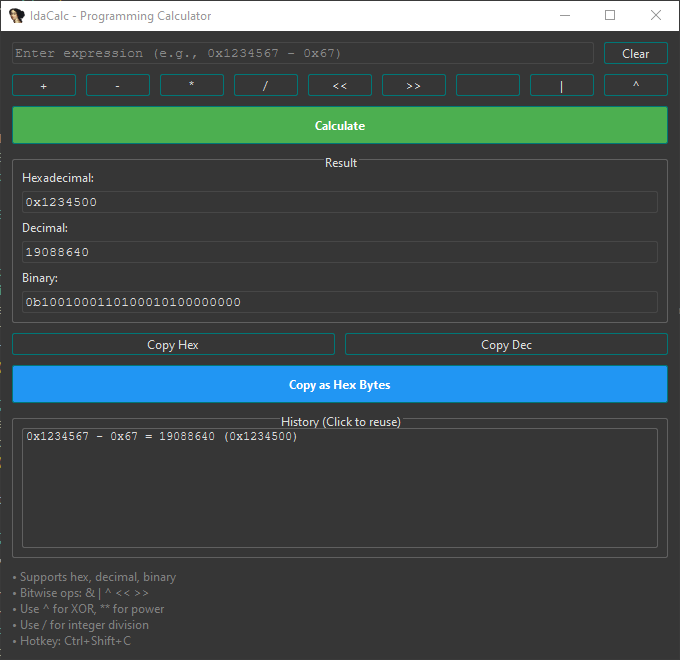
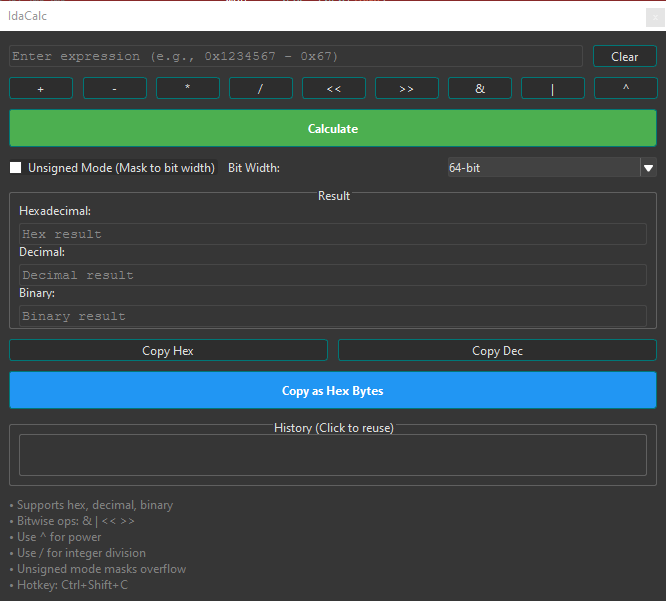
Add unsigned mode, bit width selection, and PySide6 PluginForm integration

Changed region(s): [[0.0, 0.0, 1.0, 0.9884], [0.4805, 0.2995, 0.5405, 0.3295]]

diff --git a/plugins/IdaCalc-9.2.py b/plugins/IdaCalc-9.2.py
@@ -1,18 +1,19 @@
 import idaapi
 import ida_kernwin
-from PySide6 import QtWidgets, QtCore, QtGui
+from PySide6 import QtWidgets, QtGui
 
-class IdaCalcWidget(QtWidgets.QWidget):
+class IdaCalcWidget(idaapi.PluginForm):
     def __init__(self):
         super().__init__()
         self.History = []
+        self.UnsignedMode = False
+        self.BitWidth = 64
+        
+    def OnCreate(self, form):
+        self.Parent = self.FormToPyQtWidget(form)
         self.InitUI()
-        
+                
     def InitUI(self):
-        self.setWindowTitle("IdaCalc - Programming Calculator")
-        self.setMinimumWidth(500)
-        self.setWindowFlags(QtCore.Qt.Window | QtCore.Qt.WindowStaysOnTopHint)
-        
         Layout = QtWidgets.QVBoxLayout()
         Layout.setSpacing(10)
         
@@ -45,6 +46,20 @@ class IdaCalcWidget(QtWidgets.QWidget):
         CalcBtn.clicked.connect(self.Calculate)
         CalcBtn.setStyleSheet("QPushButton { background-color: #4CAF50; color: white; font-weight: bold; padding: 8px; }")
         Layout.addWidget(CalcBtn)
+        
+        UnsignedLayout = QtWidgets.QHBoxLayout()
+        self.UnsignedCheck = QtWidgets.QCheckBox("Unsigned Mode (Mask to bit width)")
+        self.UnsignedCheck.stateChanged.connect(self.OnUnsignedToggle)
+        UnsignedLayout.addWidget(self.UnsignedCheck)
+        
+        UnsignedLayout.addWidget(QtWidgets.QLabel("Bit Width:"))
+        self.BitWidthCombo = QtWidgets.QComboBox()
+        self.BitWidthCombo.addItems(["8-bit", "16-bit", "32-bit", "64-bit"])
+        self.BitWidthCombo.setCurrentIndex(3)
+        self.BitWidthCombo.currentIndexChanged.connect(self.OnBitWidthChange)
+        UnsignedLayout.addWidget(self.BitWidthCombo)
+        
+        Layout.addLayout(UnsignedLayout)
 
         ResultGroup = QtWidgets.QGroupBox("Result")
         ResultLayout = QtWidgets.QVBoxLayout()
@@ -100,16 +115,31 @@ class IdaCalcWidget(QtWidgets.QWidget):
         
         Info = QtWidgets.QLabel(
             "• Supports hex, decimal, binary\n"
-            "• Bitwise ops: & | ^ << >>\n"
+            "• Bitwise ops: & | << >>\n"
             "• Use ^ for power\n"
             "• Use / for integer division\n"
+            "• Unsigned mode masks overflow\n"
             "• Hotkey: Ctrl+Shift+C"
         )
         Info.setStyleSheet("QLabel { color: gray; font-size: 9pt; }")
         Layout.addWidget(Info)
         
-        self.setLayout(Layout)
+        self.Parent.setLayout(Layout)
         self.InputField.setFocus()
+    
+    def OnClose(self, form):
+        pass
+    
+    def OnUnsignedToggle(self, state):
+        self.UnsignedMode = (state == 2)
+        if self.ResultDec.text():
+            self.Calculate()
+    
+    def OnBitWidthChange(self, index):
+        widths = [8, 16, 32, 64]
+        self.BitWidth = widths[index]
+        if self.UnsignedMode and self.ResultDec.text():
+            self.Calculate()
         
     def AddOperator(self, op):
         Current = self.InputField.text()
@@ -154,21 +184,35 @@ class IdaCalcWidget(QtWidgets.QWidget):
             ExprEval = ExprEval.replace('^', '**')
 
             Result = eval(ExprEval)
-            
+                        
             if isinstance(Result, float):
                 if Result.is_integer():
                     Result = int(Result)
             
             if isinstance(Result, int):
-                self.ResultHex.setText(f"0x{Result:X}" if Result >= 0 else f"-0x{abs(Result):X}")
-                self.ResultDec.setText(str(Result))
-                self.ResultBin.setText(bin(Result))
+                DisplayResult = Result
                 
-                HistoryText = f"{Expr} = {Result} (0x{Result:X})" if Result >= 0 else f"{Expr} = {Result} (-0x{abs(Result):X})"
+                if self.UnsignedMode:
+                    mask = (1 << self.BitWidth) - 1
+                    DisplayResult = Result & mask
+                    
+                    self.ResultHex.setText(f"0x{DisplayResult:X}")
+                    self.ResultDec.setText(str(DisplayResult))
+                    self.ResultBin.setText(bin(DisplayResult))
+                    
+                    HistoryText = f"{Expr} = {DisplayResult} (0x{DisplayResult:X}) [unsigned {self.BitWidth}-bit]"
+                else:
+                    self.ResultHex.setText(f"0x{Result:X}" if Result >= 0 else f"-0x{abs(Result):X}")
+                    self.ResultDec.setText(str(Result))
+                    self.ResultBin.setText(bin(Result))
+                    
+                    HistoryText = f"{Expr} = {Result} (0x{Result:X})" if Result >= 0 else f"{Expr} = {Result} (-0x{abs(Result):X})"
+                
                 if HistoryText not in [self.HistoryList.item(i).text() for i in range(self.HistoryList.count())]:
                     self.HistoryList.insertItem(0, HistoryText)
                     if self.HistoryList.count() > 10:
                         self.HistoryList.takeItem(10)
+                        
             elif isinstance(Result, float):
                 self.ResultDec.setText(str(Result))
                 self.ResultHex.setText(f"0x{int(Result):X}")
@@ -185,6 +229,8 @@ class IdaCalcWidget(QtWidgets.QWidget):
                 self.ResultBin.clear()
                 
         except Exception as e:
+            import traceback
+            traceback.print_exc()
             ida_kernwin.warning(f"IdaCalc: Error calculating: {str(e)}")
             
     def CopyHex(self):
@@ -247,6 +293,19 @@ class IdaCalcWidget(QtWidgets.QWidget):
             
     def LoadFromHistory(self, item):
         Text = item.text()
+        
+        if 'unsigned' in Text:
+            import re
+            match = re.search(r'\[unsigned (\d+)-bit\]', Text)
+            if match:
+                bit_width = int(match.group(1))
+                width_map = {8: 0, 16: 1, 32: 2, 64: 3}
+                if bit_width in width_map:
+                    self.BitWidthCombo.setCurrentIndex(width_map[bit_width])
+            self.UnsignedCheck.setChecked(True)
+        else:
+            self.UnsignedCheck.setChecked(False)
+        
         Expr = Text.split('=')[0].strip()
         self.InputField.setText(Expr)
         self.Calculate()
@@ -254,28 +313,26 @@ class IdaCalcWidget(QtWidgets.QWidget):
 
 class IdaCalcPlugin(idaapi.plugin_t):
     flags = idaapi.PLUGIN_KEEP
-    comment = "IdaCalc - Programming calculator for IDA Pro 9.2"
+    comment = "IdaCalc - Programming calculator for IDA Pro 9.2+"
     help = "IdaCalc - Programming calculator with hex support"
     wanted_name = "IdaCalc"
     wanted_hotkey = "Ctrl-Shift-C"
     
     def init(self):
         self.Widget = None
-        print("IdaCalc: Plugin loaded! Press Ctrl+Shift+C to oepn.")
+        print("IdaCalc: Plugin loaded! Press Ctrl+Shift+C to open.")
         return idaapi.PLUGIN_KEEP
         
     def run(self, arg):
         if self.Widget is None:
             self.Widget = IdaCalcWidget()
         
-        self.Widget.show()
-        self.Widget.activateWindow()
-        self.Widget.raise_()
-        self.Widget.InputField.setFocus()
+        self.Widget.Show("IdaCalc", options=(ida_kernwin.WOPN_RESTORE | ida_kernwin.WOPN_PERSIST))
+        ida_kernwin.set_dock_pos("IdaCalc", None, ida_kernwin.DP_FLOATING)
         
     def term(self):
         if self.Widget:
-            self.Widget.close()
+            self.Widget.Close(idaapi.PluginForm.WCLS_SAVE)
 
 
 def PLUGIN_ENTRY():

diff --git a/README.md b/README.md
@@ -1,6 +1,6 @@
 # IdaCalc - Programming Calculator for IDA Pro
 
-IdaCalc is a lightweight programming calculator plugin for **IDA Pro**, designed to simplify calculations during reverse engineering or low-level programming tasks. It supports hexadecimal, decimal, binary, and common bitwise operations, with easy clipboard integration and a history feature.  
+IdaCalc is a lightweight programming calculator plugin for **IDA Pro**, designed to simplify calculations during reverse engineering or low-level programming tasks. It supports hexadecimal, decimal, binary, common bitwise operations, and unsigned arithmetic with configurable bit widths. Clipboard integration and a history feature make repeated calculations easy.  
 
 ![Screenshot](Images/Interface.png)
 
@@ -9,11 +9,11 @@ IdaCalc is a lightweight programming calculator plugin for **IDA Pro**, designed
 ## Features
 
 - Supports **hexadecimal, decimal, and binary** numbers.
-- Common operations: `+`, `-`, `*`, integer division `/`, bitwise `&`, `|`, `^`, `<<`, `>>`.
+- Common operations: `+`, `-`, `*`, `/`, bitwise `&`, `|`, `^`, `<<`, `>>`.
+- **Unsigned mode** with configurable bit width (8, 16, 32, 64).
 - Converts results automatically to **hex, decimal, and binary**.
 - **Copy results** to clipboard as hex, decimal, or little-endian hex bytes.
 - **History feature**: click on previous expressions to reuse them.
-- Lightweight **PySide6 GUI** that stays on top of IDA.
 - Hotkey support: `Ctrl+Shift+C` to open the calculator quickly.
 
 ---
@@ -22,25 +22,24 @@ IdaCalc is a lightweight programming calculator plugin for **IDA Pro**, designed
 
 1. Copy `IdaCalc-x.x.py` into your IDA Pro `plugins` directory:
 
-   ```text
-   <IDA_INSTALL_DIR>/plugins/
-   ```
+    ```text
+    <IDA_INSTALL_DIR>/plugins/
+    ```
 
-2. Restart IDA Pro.
-
+2. Restart IDA Pro if it was already running.
 3. Open the calculator with **Ctrl+Shift+C** or via the IDA Plugins menu.
 
 ---
 
 ## Usage
 
-1. Enter an expression in the input box:
+1. Enter an expression in the input box, e.g:
 
-   ```text
-   0x12345678 - 0x67
-   ```
+    ```text
+    0x12345678 - 0x67
+    ```
 
-2. Click **Calculate**.
+2. Click **Calculate** or press **Enter**.
 3. View results in **Hex**, **Decimal**, or **Binary**.
 4. Click **Copy Hex**, **Copy Dec**, or **Copy as Hex Bytes** to copy results to the clipboard.
 5. Double-click a previous calculation in the **History** section to reuse it.
@@ -65,7 +64,7 @@ IdaCalc is a lightweight programming calculator plugin for **IDA Pro**, designed
 
 ### Requirements
 
-#### IDA Pro 9.2
+#### IDA Pro 9.2+
 - Python 3.x support in IDA
 - PySide6 installed (`pip install PySide6` if needed)
 
